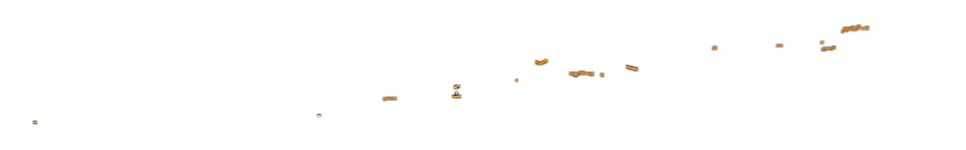
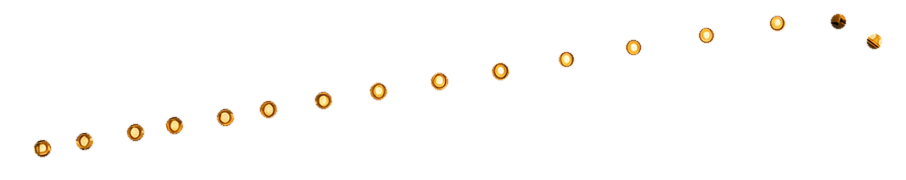
Add files via upload

diff --git a/test-responsive/css/responsive-exterior-portrait-v6.css b/test-responsive/css/responsive-exterior-portrait-v6.css
@@ -1,4 +1,4 @@
-/* Movie Quiz – portrait exterior v6.3
+/* Movie Quiz – portrait exterior v6.4
    TEST INSTANCE ONLY.
    Mobile + tablet portrait rebuild using a dedicated 1086×1235 top-anchored master.
 
@@ -106,19 +106,41 @@
     z-index:8!important;
     display:block!important;
     pointer-events:none!important;
-    background:url('../assets/exterior-portrait-v6/car-shine.png') center/100% 100% no-repeat!important;
+
+    /* IMPORTANT: use the actual transparent CAR asset as the alpha mask.
+       The previous black/white mask had an opaque alpha channel, so Safari/Chrome
+       correctly treated the whole rectangle as visible. */
+    -webkit-mask-image:url('../assets/exterior-portrait-v6/car.png')!important;
+    -webkit-mask-repeat:no-repeat!important;
+    -webkit-mask-position:center!important;
+    -webkit-mask-size:100% 100%!important;
+    mask-image:url('../assets/exterior-portrait-v6/car.png')!important;
+    mask-repeat:no-repeat!important;
+    mask-position:center!important;
+    mask-size:100% 100%!important;
+
+    /* Mirrored sweep: the layer never moves. Only background-position moves
+       inside the fixed car silhouette, so it physically cannot spill outside it. */
+    background:linear-gradient(72deg,
+      transparent 0 35%,
+      rgba(255,232,174,0) 39%,
+      rgba(255,229,164,.24) 44%,
+      rgba(255,245,206,.48) 48%,
+      rgba(255,225,151,.20) 52%,
+      rgba(255,232,174,0) 57%,
+      transparent 62% 100%);
+    background-size:245% 100%;
+    background-position:-48% 0;
     mix-blend-mode:screen;
     opacity:0;
-    transform:translate3d(132px,0,0);
-    will-change:transform,opacity!important;
     animation:mqPV6CarShine 9s ease-in-out infinite;
   }
   @keyframes mqPV6CarShine{
-    0%,62%{transform:translate3d(132px,0,0);opacity:0}
-    67%{opacity:.62}
-    80%{transform:translate3d(-34px,0,0);opacity:.52}
-    88%{transform:translate3d(-110px,0,0);opacity:.18}
-    100%{transform:translate3d(-110px,0,0);opacity:0}
+    0%,64%{background-position:-48% 0;opacity:0}
+    68%{opacity:.56}
+    82%{background-position:145% 0;opacity:.48}
+    89%{background-position:180% 0;opacity:.12}
+    100%{background-position:180% 0;opacity:0}
   }
     72%{opacity:.46}
     86%{background-position:-30% 0;opacity:.38}
@@ -169,43 +191,54 @@
     62%{opacity:.48}
   }
 
-  /* Desktop-style marquee light pulse using the exact portrait master cutout. */
-  html.mq-exterior-portrait-v6 body.mq-noir-master .mq-pv6-marquee-lights{
-    left:118px!important;top:580px!important;width:968px!important;height:158px!important;z-index:11!important;
-    opacity:1!important;mix-blend-mode:screen!important;
-    filter:brightness(1.02) drop-shadow(8px 11px 7px rgba(0,0,0,.18));
-    animation:mqPV6MarqueeLight 5.4s ease-in-out infinite alternate;
-  }
-  @keyframes mqPV6MarqueeLight{
-    from{filter:brightness(1.02) drop-shadow(8px 11px 7px rgba(0,0,0,.18))}
-    to{filter:brightness(1.16) saturate(1.04) drop-shadow(9px 13px 8px rgba(0,0,0,.24)) drop-shadow(0 0 4px rgba(255,183,70,.18))}
+
+  /* MARQUEE BULBS – same implementation principle and timing as desktop v6.3.
+     The PNGs are now real transparent bulb-only cutouts from this exact portrait master. */
+  html.mq-exterior-portrait-v6 body.mq-noir-master .mq-pv6-marquee{
+    left:180px!important;
+    top:565px!important;
+    width:906px!important;
+    height:180px!important;
+    z-index:12!important;
+    opacity:.08;
+    mix-blend-mode:screen!important;
+    object-fit:fill!important;
+    pointer-events:none!important;
   }
 
-  /* Marquee bulbs – exact bulb pixels split into 3 chase groups from the portrait master. */
-  html.mq-exterior-portrait-v6 body.mq-noir-master .mq-pv6-marquee{
-    left:120px!important;top:585px!important;width:966px!important;height:150px!important;z-index:9!important;
-    opacity:.10!important;mix-blend-mode:screen!important;
-  }
   html.mq-exterior-portrait-v6 body.mq-noir-master .mq-pv6-marquee.halo{
-    opacity:.12!important;filter:blur(.38px);animation:mqPV6BulbHalo 3.2s ease-in-out infinite;
+    opacity:.18!important;
+    mix-blend-mode:screen!important;
+    animation:mqPV6BulbHalo 3.2s ease-in-out infinite!important;
   }
+
   html.mq-exterior-portrait-v6 body.mq-noir-master .mq-pv6-marquee.g1,
   html.mq-exterior-portrait-v6 body.mq-noir-master .mq-pv6-marquee.g2,
   html.mq-exterior-portrait-v6 body.mq-noir-master .mq-pv6-marquee.g3{
-    opacity:.09!important;
-    filter:brightness(1.18) saturate(1.03) drop-shadow(0 0 2px rgba(255,198,92,.44));
-    animation:mqPV6BulbChase 1.35s ease-in-out infinite;
+    opacity:.08!important;
+    mix-blend-mode:screen!important;
+    filter:brightness(1.30) saturate(1.05) drop-shadow(0 0 2px rgba(255,198,92,.58))!important;
+    animation:mqPV6BulbChase 1.35s ease-in-out infinite!important;
   }
-  html.mq-exterior-portrait-v6 body.mq-noir-master .mq-pv6-marquee.g1{animation-delay:0s}
-  html.mq-exterior-portrait-v6 body.mq-noir-master .mq-pv6-marquee.g2{animation-delay:-.45s}
-  html.mq-exterior-portrait-v6 body.mq-noir-master .mq-pv6-marquee.g3{animation-delay:-.90s}
+  html.mq-exterior-portrait-v6 body.mq-noir-master .mq-pv6-marquee.g1{animation-delay:0s!important}
+  html.mq-exterior-portrait-v6 body.mq-noir-master .mq-pv6-marquee.g2{animation-delay:-.45s!important}
+  html.mq-exterior-portrait-v6 body.mq-noir-master .mq-pv6-marquee.g3{animation-delay:-.90s!important}
+
   @keyframes mqPV6BulbChase{
-    0%,28%,100%{opacity:.07;filter:brightness(1.08) saturate(1.02)}
-    42%,68%{opacity:.72;filter:brightness(1.56) saturate(1.07) drop-shadow(0 0 3px rgba(255,205,105,.68)) drop-shadow(0 0 7px rgba(255,156,42,.24))}
+    0%,28%,100%{
+      opacity:.08;
+      filter:brightness(1.10) saturate(1.02) drop-shadow(0 0 1px rgba(255,198,92,.28))
+    }
+    42%,68%{
+      opacity:.82;
+      filter:brightness(1.62) saturate(1.08)
+        drop-shadow(0 0 3px rgba(255,205,105,.78))
+        drop-shadow(0 0 7px rgba(255,156,42,.30))
+    }
   }
   @keyframes mqPV6BulbHalo{
-    0%,100%{opacity:.09;filter:blur(.20px)}
-    50%{opacity:.20;filter:blur(.60px)}
+    0%,100%{opacity:.12;filter:blur(.15px)}
+    50%{opacity:.27;filter:blur(.55px)}
   }
 
   /* Steam – two copies of the exact master-derived plume. */

diff --git a/test-responsive/js/responsive-exterior-portrait-v6.js b/test-responsive/js/responsive-exterior-portrait-v6.js
@@ -1,7 +1,7 @@
 (()=>{
   'use strict';
 
-  const VERSION='responsive-exterior-portrait-v6.3';
+  const VERSION='responsive-exterior-portrait-v6.4';
   const initialDpr=Math.max(.1,Number(window.devicePixelRatio)||1);
   const QUERY='(orientation: portrait) and (max-width: 1180px)';
   const MASTER_W=1086;
@@ -53,7 +53,6 @@
     addImg(s,'mq-pv6-jackdaws-glow','jackdaws-glow.png');
     addImg(s,'mq-pv6-hotel-glow','hotel-glow.png');
 
-    addImg(s,'mq-pv6-marquee-lights','marquee-lights.png');
     addImg(s,'mq-pv6-marquee halo','marquee-bulbs-halo.png');
     addImg(s,'mq-pv6-marquee g1','marquee-bulbs-1.png');
     addImg(s,'mq-pv6-marquee g2','marquee-bulbs-2.png');
